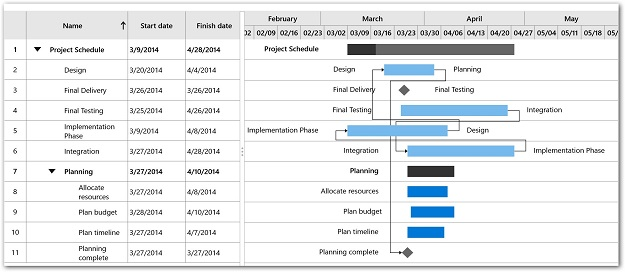
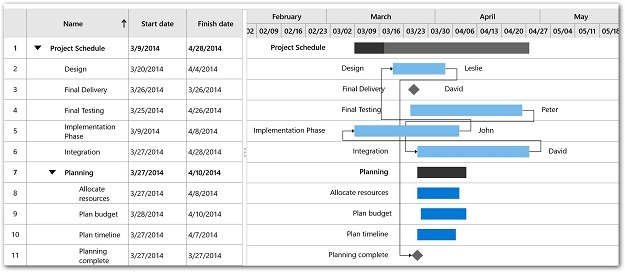
UWP-6074 : Need to do the review changes in SfGantt UG documentation.
i)Changed the resource collection items,
ii)Changed the images related to resources collection items.

Changed region(s): [[0.0, 0.0294, 1.0, 1.0]]

diff --git a/uwp/SfGantt/Getting-Started.md b/uwp/SfGantt/Getting-Started.md
@@ -82,7 +82,7 @@ Syncfusion.SfShared.UWP is dependent assembly for Syncfusion.SfInput.UWP.
 </tr>
 </table>
 
-## Adding SfGantt
+## Adding SfGantt manually
 
 1.After adding the required assembly references to the project as discussed in the Reference Essential Studio Components in your Solution section.
 
@@ -278,7 +278,7 @@ public class ProjectTrackerViewModel
 
 ## Binding data
 
-To bind the data source of the SfGantt, set ItemsSource property as shown below.
+To bind the data source of the SfGantt, set **ItemsSource** property as shown below.
 
 {% tabs %}
 
@@ -300,7 +300,7 @@ SfGantt gantt = new SfGantt() { ItemsSource = this.taskDetails.TaskCollection };
 
 By default, the grid view is manipulated with Name, Start Date, Finish Date, Duration, Progress, Predecessor and Resources columns.
 
-You can also customize the visible columns of grid view using VisibleGridColumns property in SfGantt.
+You can also customize the visible columns of grid view using **VisibleGridColumns** property in SfGantt.
 
 The following code example illustrates how this can be done.
 
@@ -361,7 +361,7 @@ gantt.AllowSorting = true;
 
 ## Editing
 
-You can enable editing using AllowEditing property in the Gantt. Editing can be done by cell editing in grid or drag/resize the task bar or progress bar in chart view, also drag and drop to establish relationship between the two tasks.
+You can enable editing using **AllowEditing** property in the Gantt. Editing can be done by cell editing in grid or drag/resize the task bar or progress bar in chart view, also drag and drop to establish relationship between the two tasks.
 
 The below code illustrates enabling the editing in Gantt.
 
@@ -457,17 +457,17 @@ public GanttResourceCollection ResourceCollection
 private GanttResourceCollection GetResources()
 {
     GanttResourceCollection Resources = new GanttResourceCollection();
-    Resources.Add(new GanttResource { ID = "1", Name = "Planning" });
-    Resources.Add(new GanttResource { ID = "2", Name = "Design" });
-    Resources.Add(new GanttResource { ID = "3", Name = "Implementation Phase" });
-    Resources.Add(new GanttResource { ID = "4", Name = "Integration" });
-    Resources.Add(new GanttResource { ID = "5", Name = "Final Testing" });
+    Resources.Add(new GanttResource { ID = "1", Name = "Leslie" });
+    Resources.Add(new GanttResource { ID = "2", Name = "John" });
+    Resources.Add(new GanttResource { ID = "3", Name = "David" });
+    Resources.Add(new GanttResource { ID = "4", Name = "Peter" });
+    Resources.Add(new GanttResource { ID = "5", Name = "David" });
     return Resources;
 }
 
 {% endhighlight %}
 
-2.Bind the resource collection to the property ProjectResourceCollection property in SfGantt.
+2.Bind the resource collection to the property **ProjectResources** property in SfGantt.
 
 {% tabs %}
 
@@ -516,9 +516,9 @@ public ObservableCollection<TaskDetail> GetData()
 
 To highlight and customize the weekends in the Gantt. By default, Saturday and Sunday is considered as weekends.
 
-* ShowNonWorkingDays property can be used to enable or disable the non-working 
-* NonWorkingDays property can be used to customize the weekends.
-* NonWorkingDaysBackground property can be used change the weekends highlighting color.
+* **ShowNonWorkingDays** property can be used to enable or disable the non-working 
+* **NonWorkingDays** property can be used to customize the weekends.
+* **NonWorkingDaysBackground** property can be used change the weekends highlighting color.
 
 The below code illustrates how to display the weekend as Friday.
 
